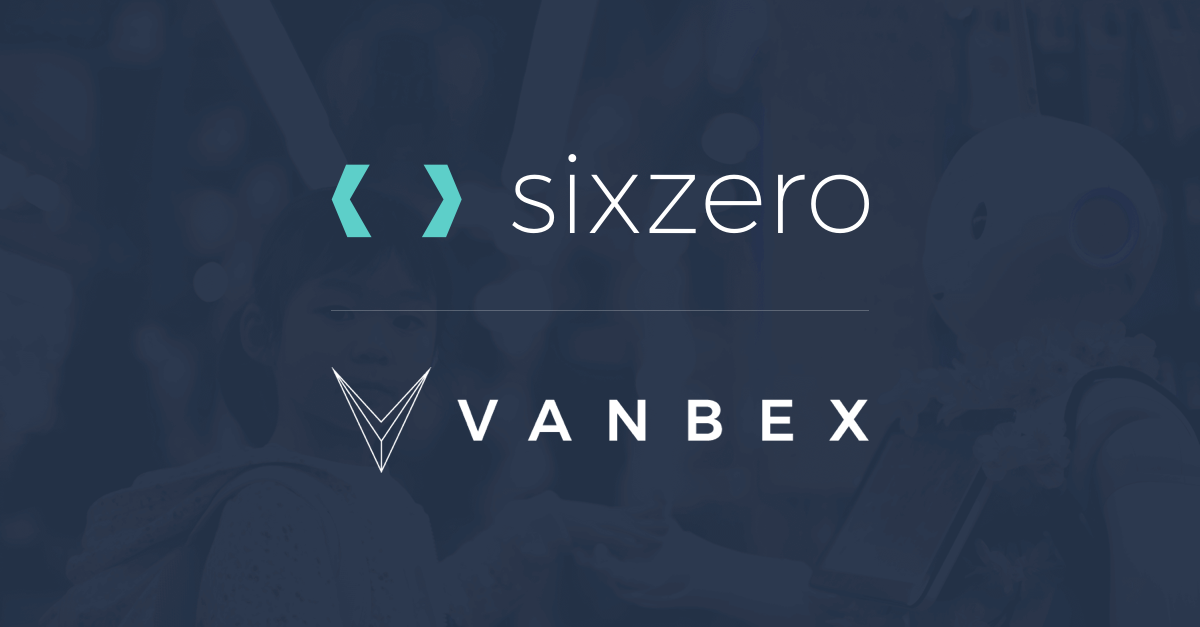
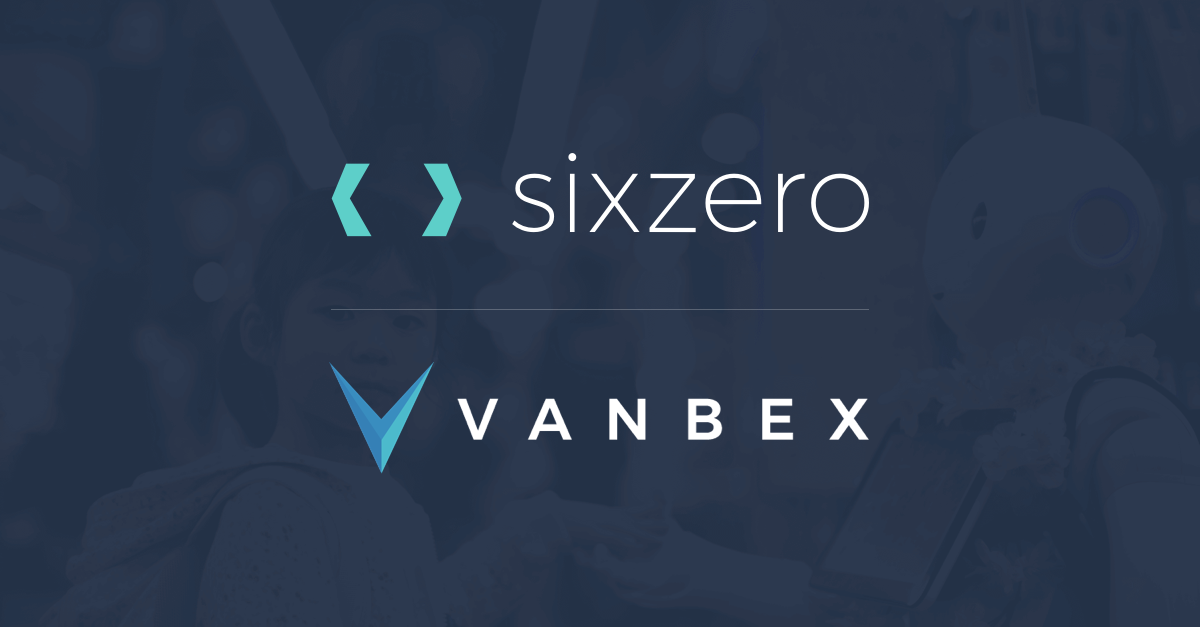
change vanbex image

diff --git a/_site/index.html b/_site/index.html
@@ -23,6 +23,8 @@
 <meta property="og:image:alt" content="Sixzero banner with logo" />
 <meta property="og:url" content="http://sixzero.co/" />
 
+
+
   
 </head>
 <body>
@@ -96,7 +98,7 @@
         helped make their marketing website more effective with a human 
         focused redesign.
       </p>
-      <a href="/projects/vanbex/" class="button--primary" target="_blank">See Project</a>
+      <a href="/projects/vanbex/" class="button--primary">See Project</a>
     </div>
   </div>
 </section>
